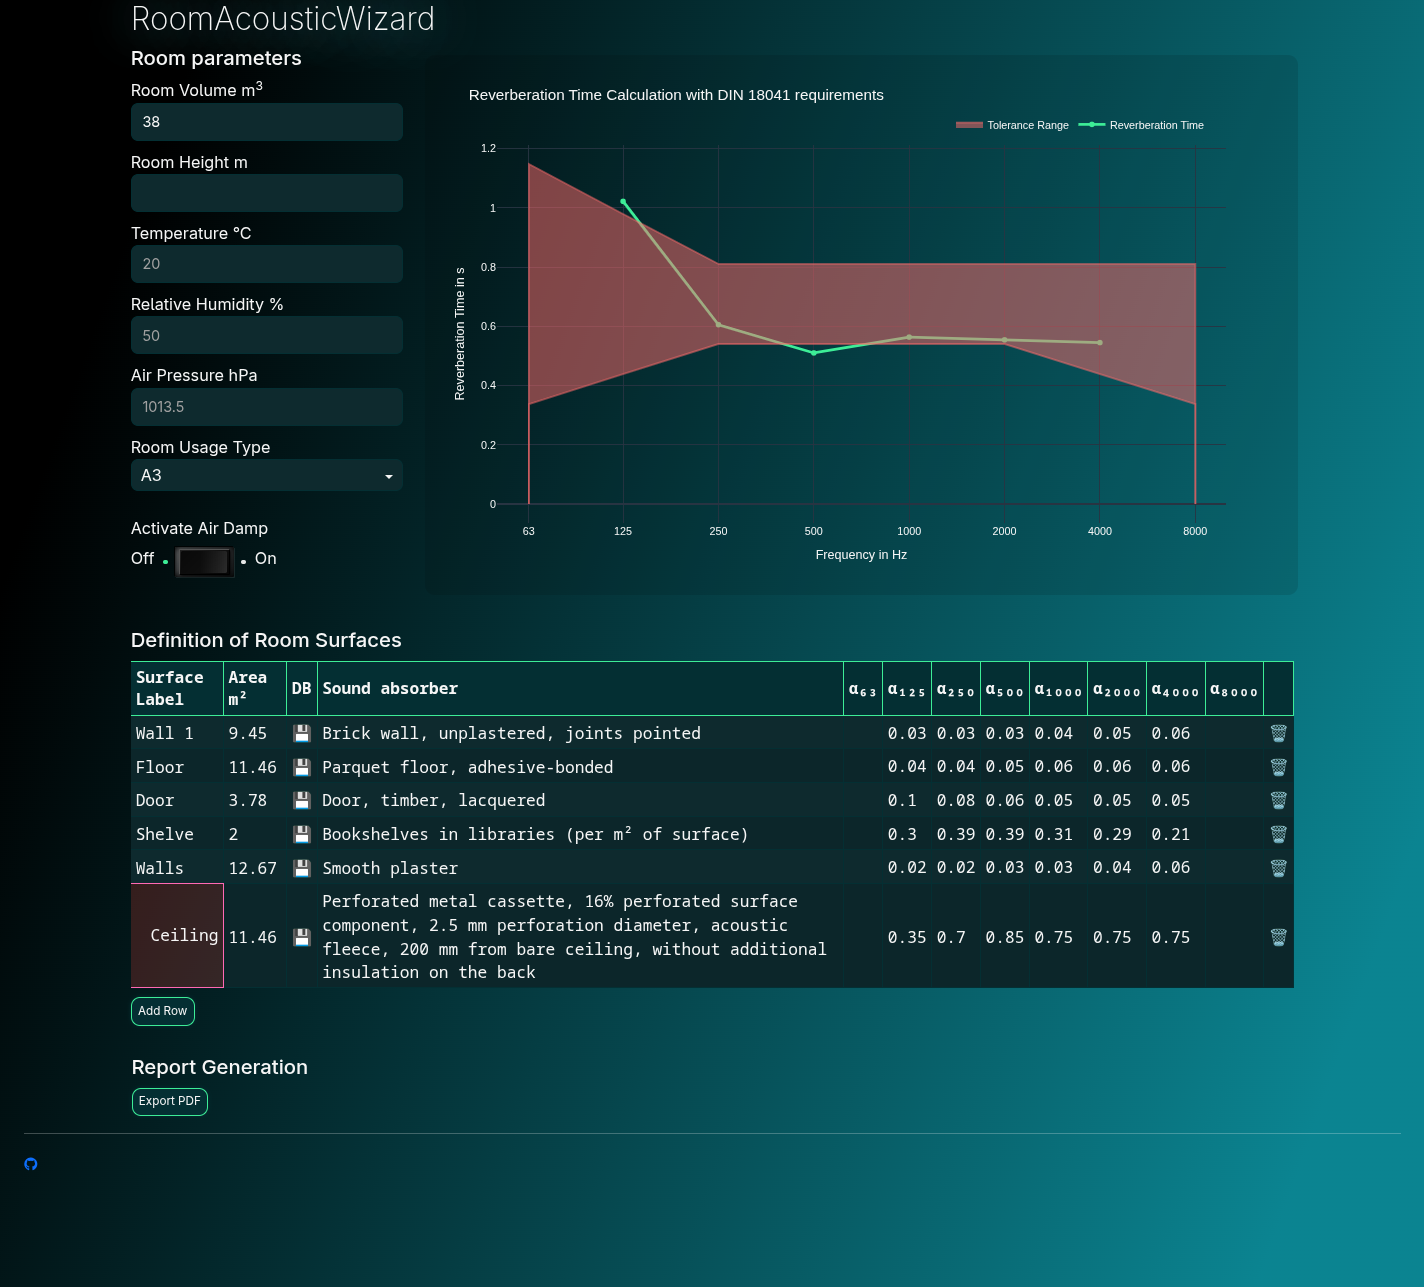
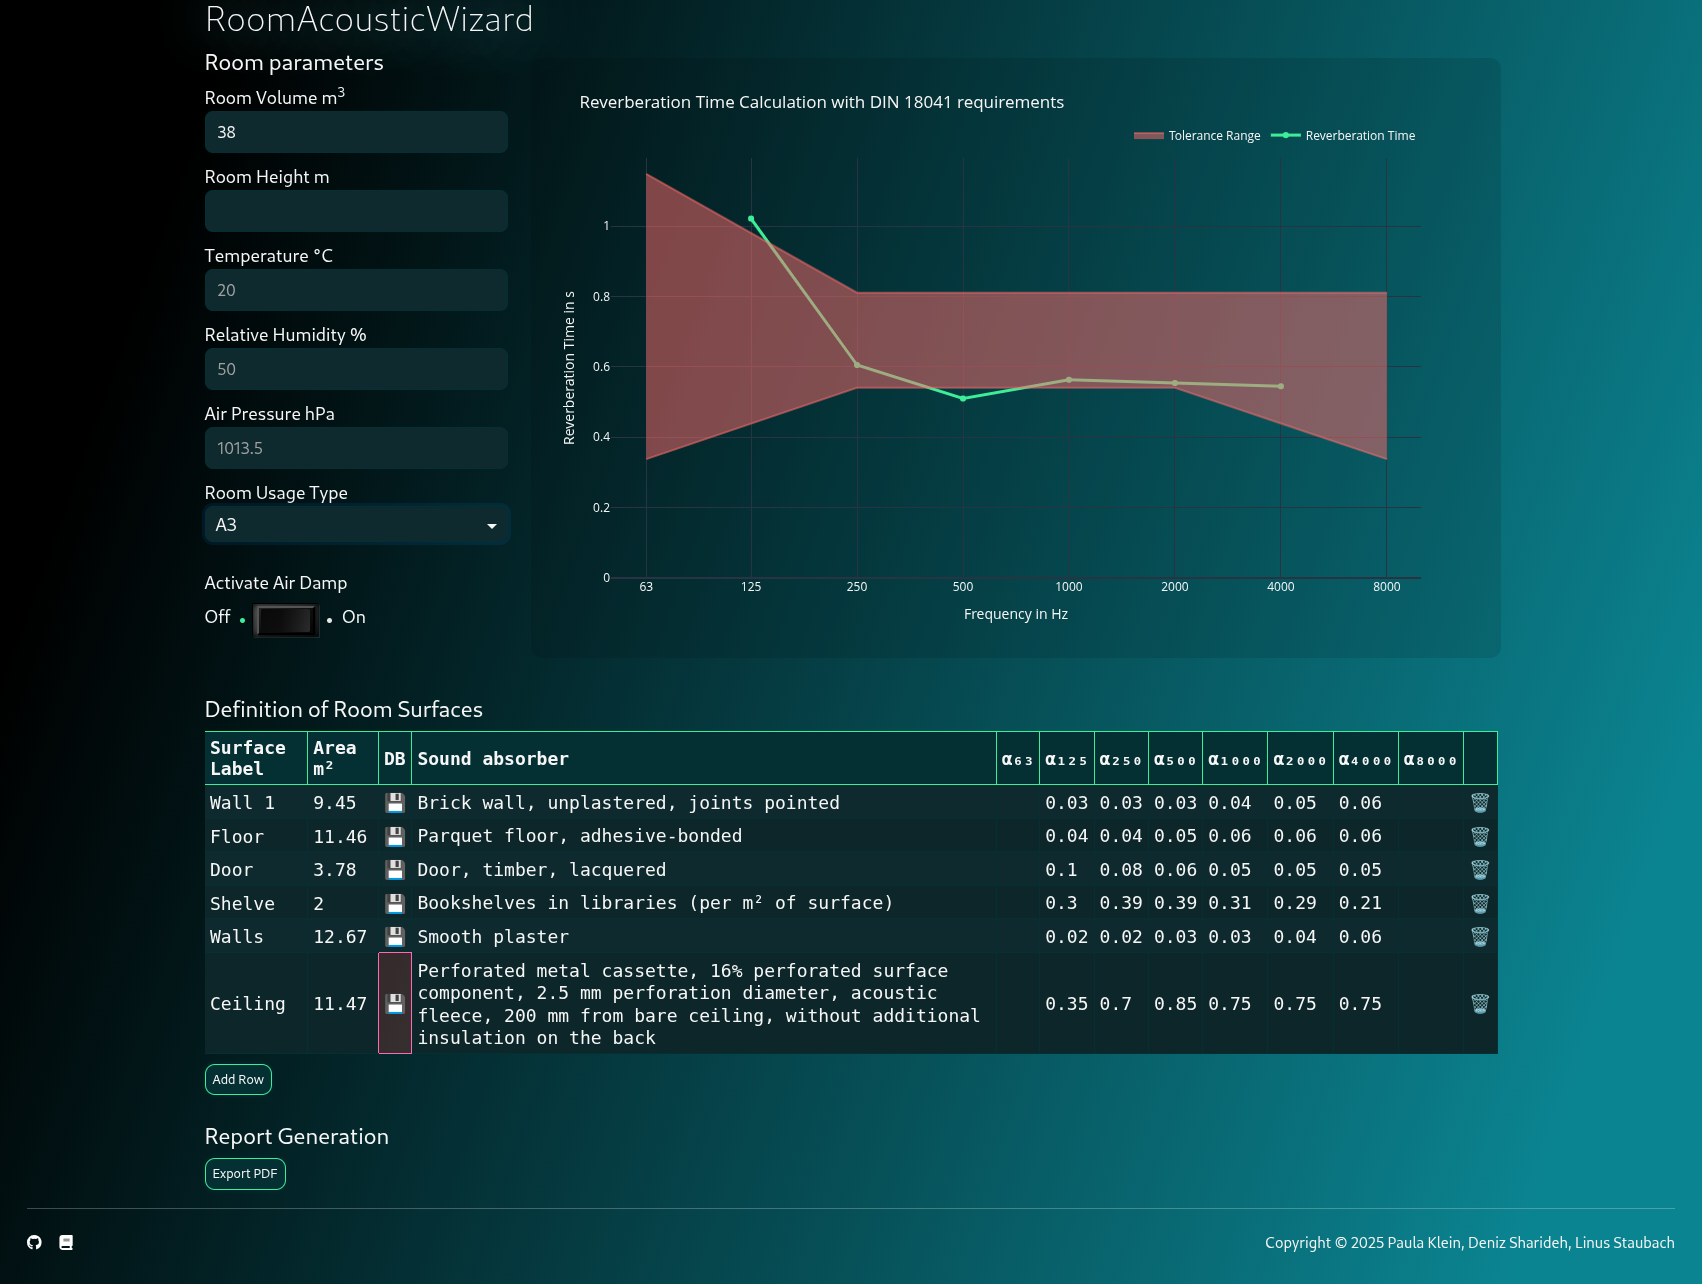
fix documentation screenshot asset call

diff --git a/pages/home.py b/pages/home.py
@@ -827,6 +827,7 @@ def update_graph_with_calculation(table_data, volume, height, temp, humidity, pr
             title_text="Reverberation Time Calculation with DIN 18041 requirements",
             xaxis_title="Frequency in Hz",
             yaxis_title="Reverberation Time in s",
+            yaxis=dict(range=[0, None]),
             xaxis=dict(
                 type='log',
                 tickvals=frequency_bands,
